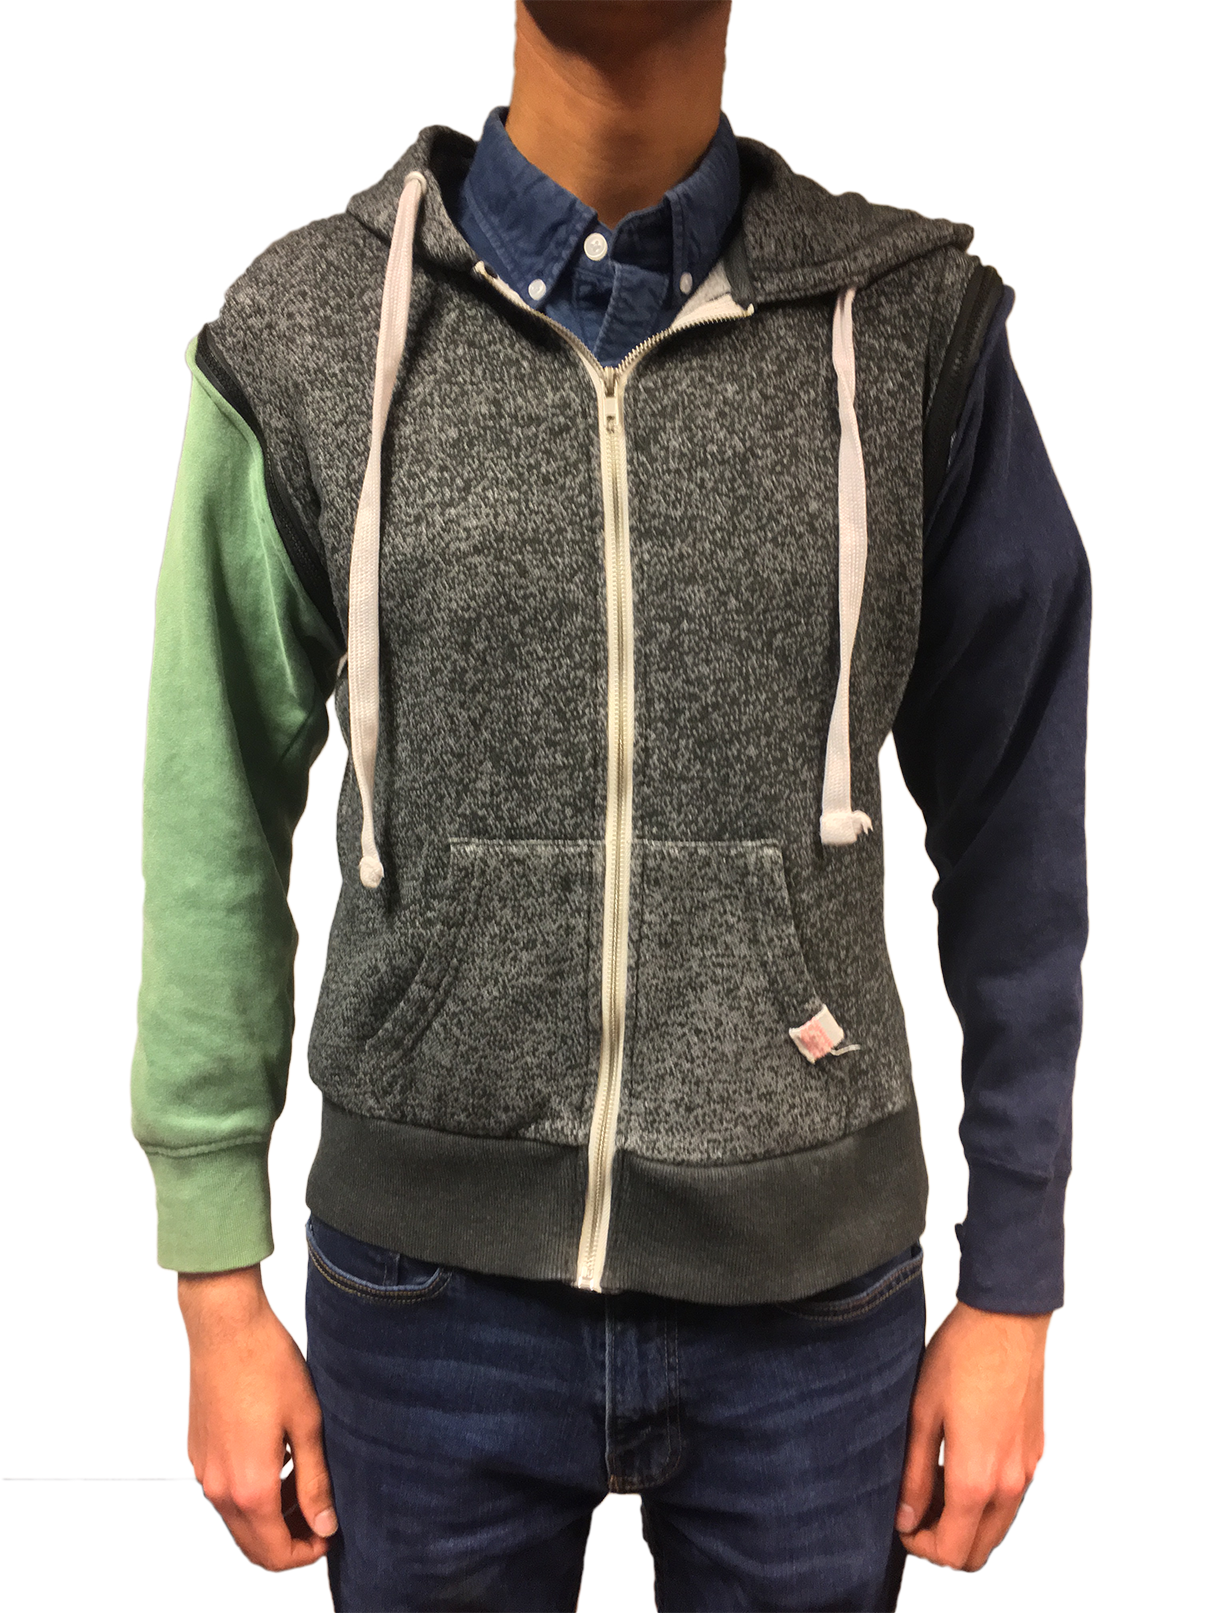
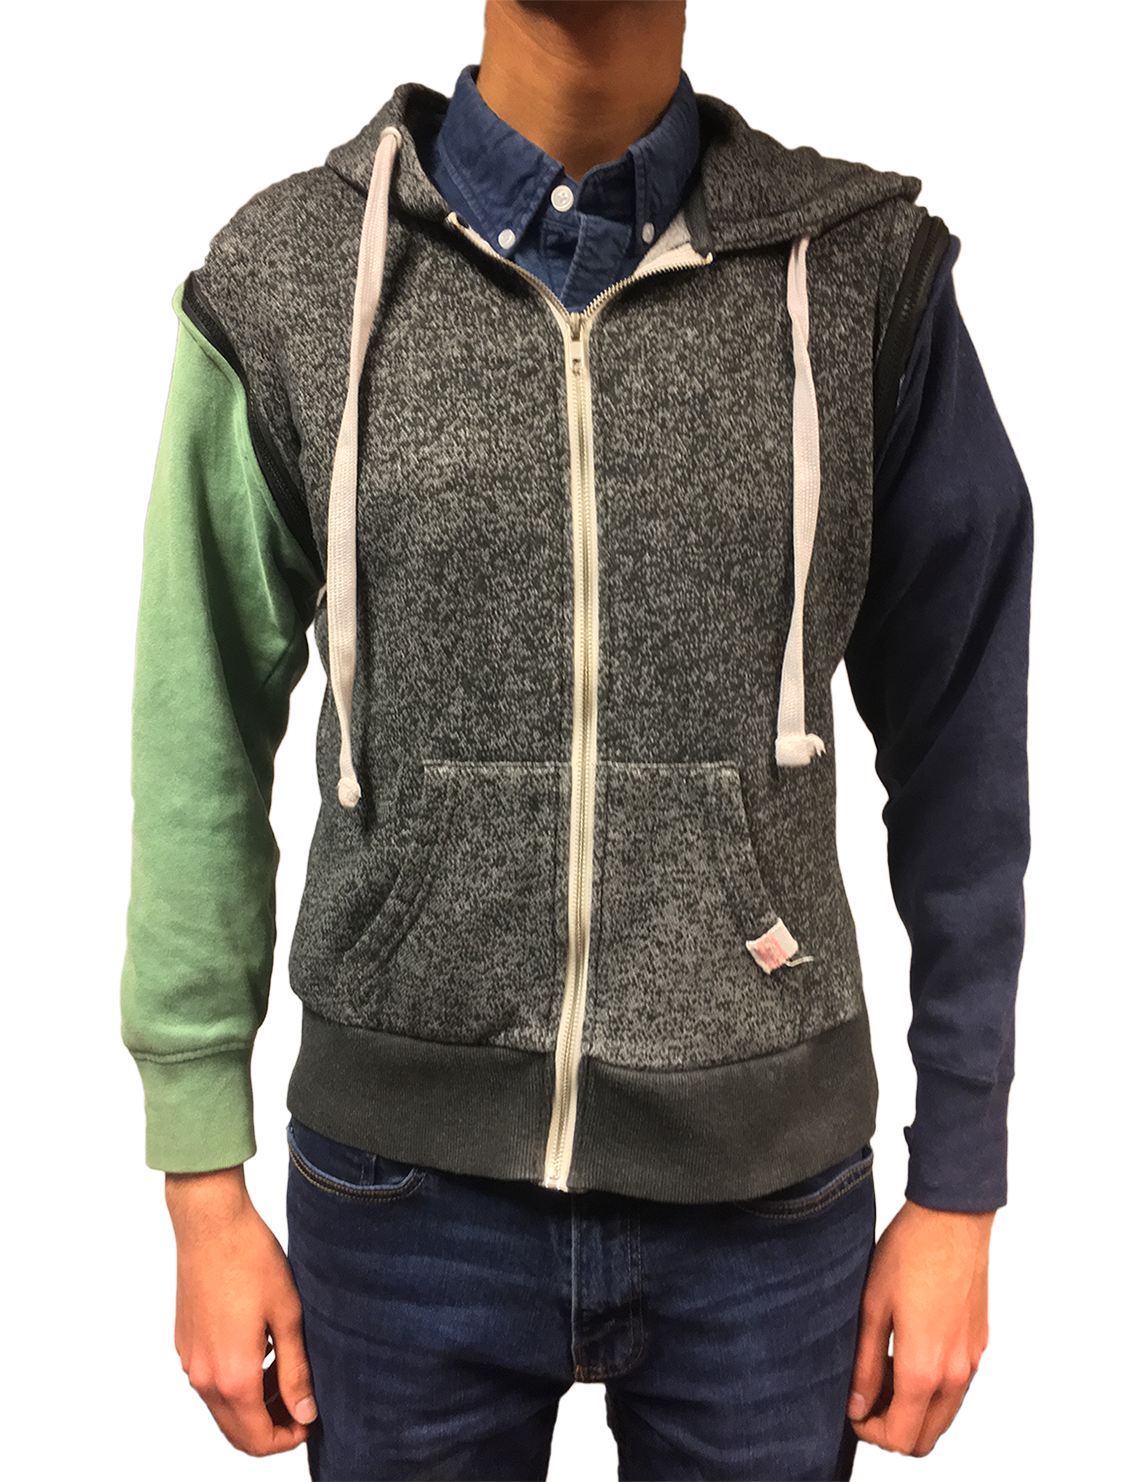
biiig update

diff --git a/projects.html b/projects.html
@@ -1,0 +1,108 @@
+<!doctype html>
+<html lang="en">
+  <head>
+    <link href="css/main.css" rel="stylesheet" type="text/css"/>
+    <link href='https://fonts.googleapis.com/css?family=Oxygen' rel='stylesheet' type="text/css"/>
+    <meta charset="UTF-8">
+    <meta name="viewport" content="width=device-width,initial-scale=1.0">
+    <meta http-equiv="X-UA-Compatible" content="ie=edge">
+    <title>kai chorazewicz</title>
+  </head>
+  <body>
+    <header>
+      <h1>kchwz</h1>
+      <nav>
+        <ul>
+          <li><a href="index.html">home</a></li>
+          <li><a href="experience.html">experience</a></li>
+          <li><a style="font-weight:bold;" href="projects.html">projects</a></li>
+          <li><a href="contact.html">contact</a></li>
+        </ul>
+      </nav>
+    </header>
+    <div class="projects-body">
+      <div class="project">
+        <div class="projects-left">
+          <div>
+            <h1>beverage appartus for recreational times ("BART")</h1>
+            <p>Automated bartending machine built completely from scratch.
+            Includes responsive LED utilizing fast fourier transform,
+            local access-point webserver and webapp, custom PCB, QR code
+            recognition and databasing for cup tracking, and TFT display
+            with status & queue sprites. </p>
+          </div>
+        </div>
+        <div class="projects-right">
+          <div>
+            <img src="Pictures/IMG_3981_2.gif">
+            <img src="Pictures/bartender_3.gif">
+          </div>
+        </div>
+      </div>
+      <hr>
+      <div class="project">
+          <div class="projects-left">
+            <div>
+              <h1>BFG 1:10000 (BFG 10k replica)</h1>
+              <p>Replica of the BFG 10,000 from DOOM. Designed 3D model from scratch,
+              3D-printed scale replica, assembled and incorporated 50-mW laser and power
+              system, PCM-based audio playback, servo-based actuation, and HTTP webserver
+              integration.  </p>
+            </div>
+          </div>
+          <div class="projects-right">
+          <div>
+            <img src="Pictures/bfg_screenshot-2.png">
+            <img src="Pictures/bfg10k_2.gif">
+          </div>
+        </div>
+      </div>
+      <hr>
+      <div class="project">
+        <div class="projects-left">
+          <div>
+            <h1>pictures of SEMThings</h1>
+            <p>Microscopies of random stuff, including my wisdom teeth,
+            quartz crystals, silicon “flowers”, gold grains, and more.</p>
+          </div>
+        </div>
+        <div class="projects-right">
+          <div>
+            <img src="Pictures/tooth.png">
+          </div>
+        </div>
+      </div>
+      <hr>
+      <div class="project">
+        <div class="projects-left">
+          <div>
+            <h1>mini metal foundry</h1>
+            <p>Propane-based metal foundry capable of melting copper, zinc, aluminum,
+            and any alloys in between. v2 (induction-based version) in progress.</p>
+          </div>
+        </div>
+        <div class="projects-right">
+          <div>
+            <img src="Pictures/necklace2.png">
+          </div>
+        </div>
+      </div>
+      <hr>
+      <div class="project">
+        <div class="projects-left">
+          <div>
+            <h1>modular colorblock clothing</h1>
+            <p>Sewn and assembled from old recycled hoodies and sweatshirts.
+            Fashion model not included.</p>
+          </div>
+        </div>
+        <div class="projects-right" id="xstyles">
+          <div>
+            <img src="Pictures/hoodie_1_cut.png">
+            <img src="Pictures/hoodie_2_cut.png">
+          </div>
+        </div>
+      </div>
+    </div>
+  </body>
+</html>

diff --git a/css/main.css b/css/main.css
@@ -154,7 +154,7 @@ body{
 }
 footer{
   background-color:#613F7C;
-  height:200px;
+  height:250px;
 }
 .blurb2{
   display:flex;
@@ -176,6 +176,66 @@ footer{
   height:80%;
   line-height:150%;
   letter-spacing:1px;
+}
+.projects-body{
+  display:inline-block;
+  width:100%;
+  height:2000px;
+}
+.projects-body hr{
+  width:60%;
+}
+.project{
+  width:80%;
+  height:450px;
+  display:inline-flex;
+  margin-left:10%;
+  margin-right:10%;
+  margin-top:20px;
+  margin-bottom:80px;
+}
+.project h1{
+  color:#613F7C;
+}
+.projects-left{
+  display:inline-block;
+  width:50%;
+  margin-top:auto;
+  margin-bottom:auto;
+}
+.projects-right{
+  display:inline-block;
+  width:50%;
+  margin-top:auto;
+  margin-bottom:auto;
+}
+.projects-left div{
+  width:50%;
+  margin-right:10%;
+  margin-left:auto;
+  margin-top:25px;
+}
+.projects-right div{
+  display:inline-block;
+  width:50%;
+  margin-left:10%;
+  margin-right:auto;
+  margin-top:25px;
+}
+.projects-right img{
+  width:100%;
+  object-fit:contain;
+  object-position:left bottom;
+  vertical-align:bottom;
+}
+#xstyles div{
+  display:inline-flex;
+  object-fit:fill;
+}
+#xstyles img{
+  width:50%;
+  object-fit:fill;
+  vertical-align:bottom;
 }
 .box{
   display:flex;

diff --git a/index.html b/index.html
@@ -115,7 +115,7 @@
           fishing, playing jazz bass and trumpet, cooking good eats and baking treats.
           I’ve also beat the founder of Guitar Hero at Guitar Hero and been featured
           on ABC7 news.</p>
-          <p>Feel free to contact me at any of the links below! a</p>
+          <p>Feel free to contact me at any of the links below!</p>
         </div>
       </div>
     </footer>
